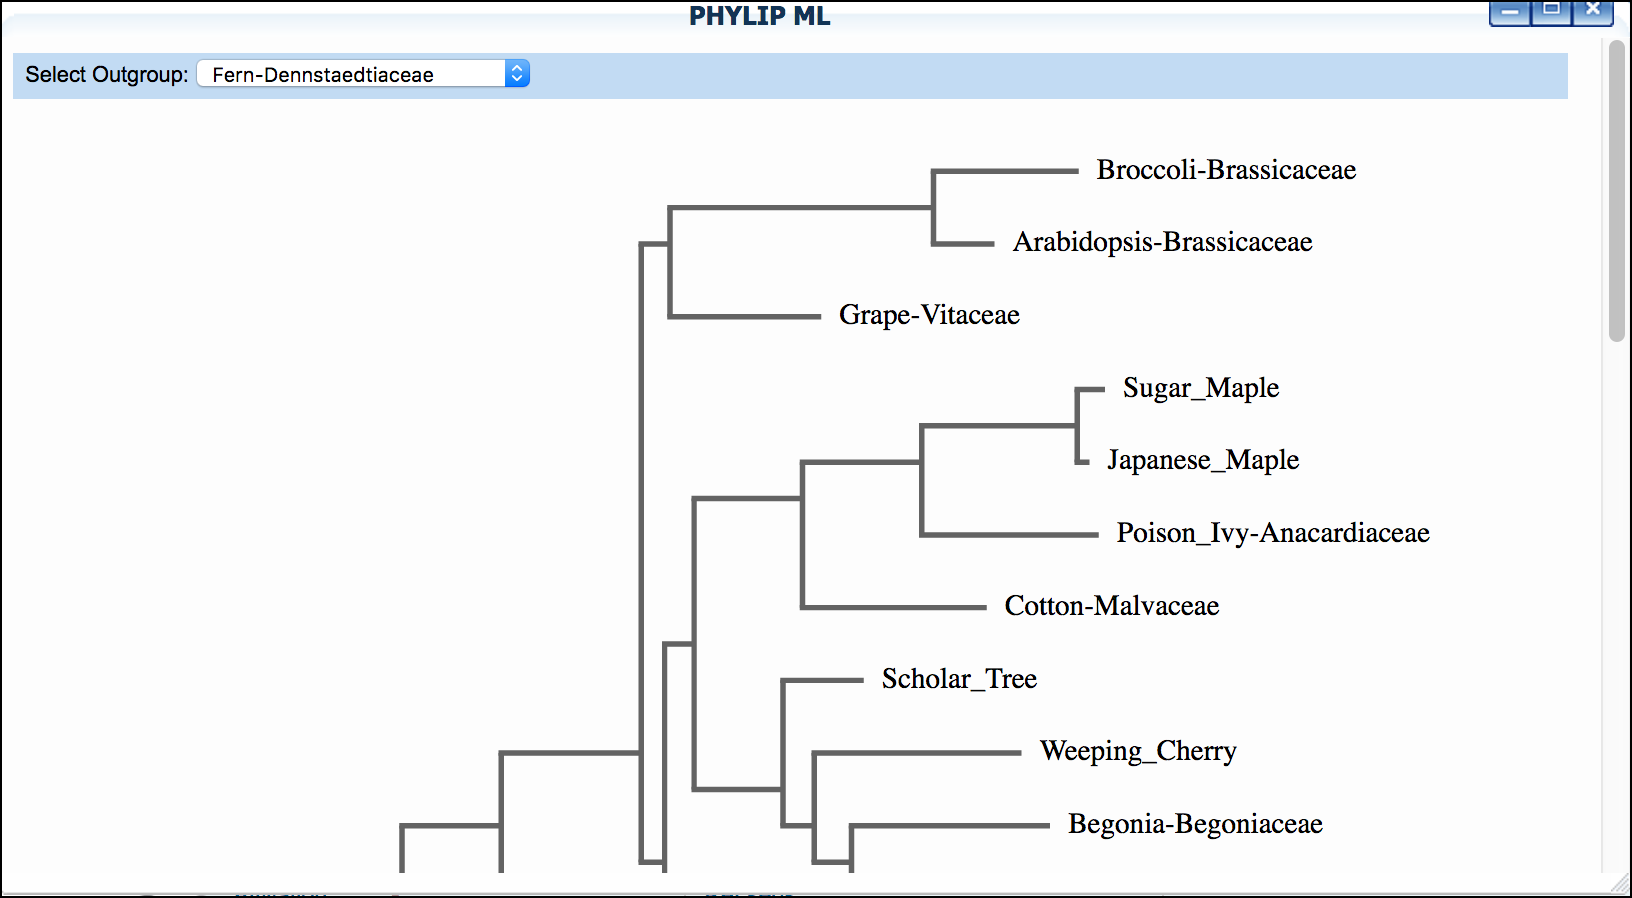
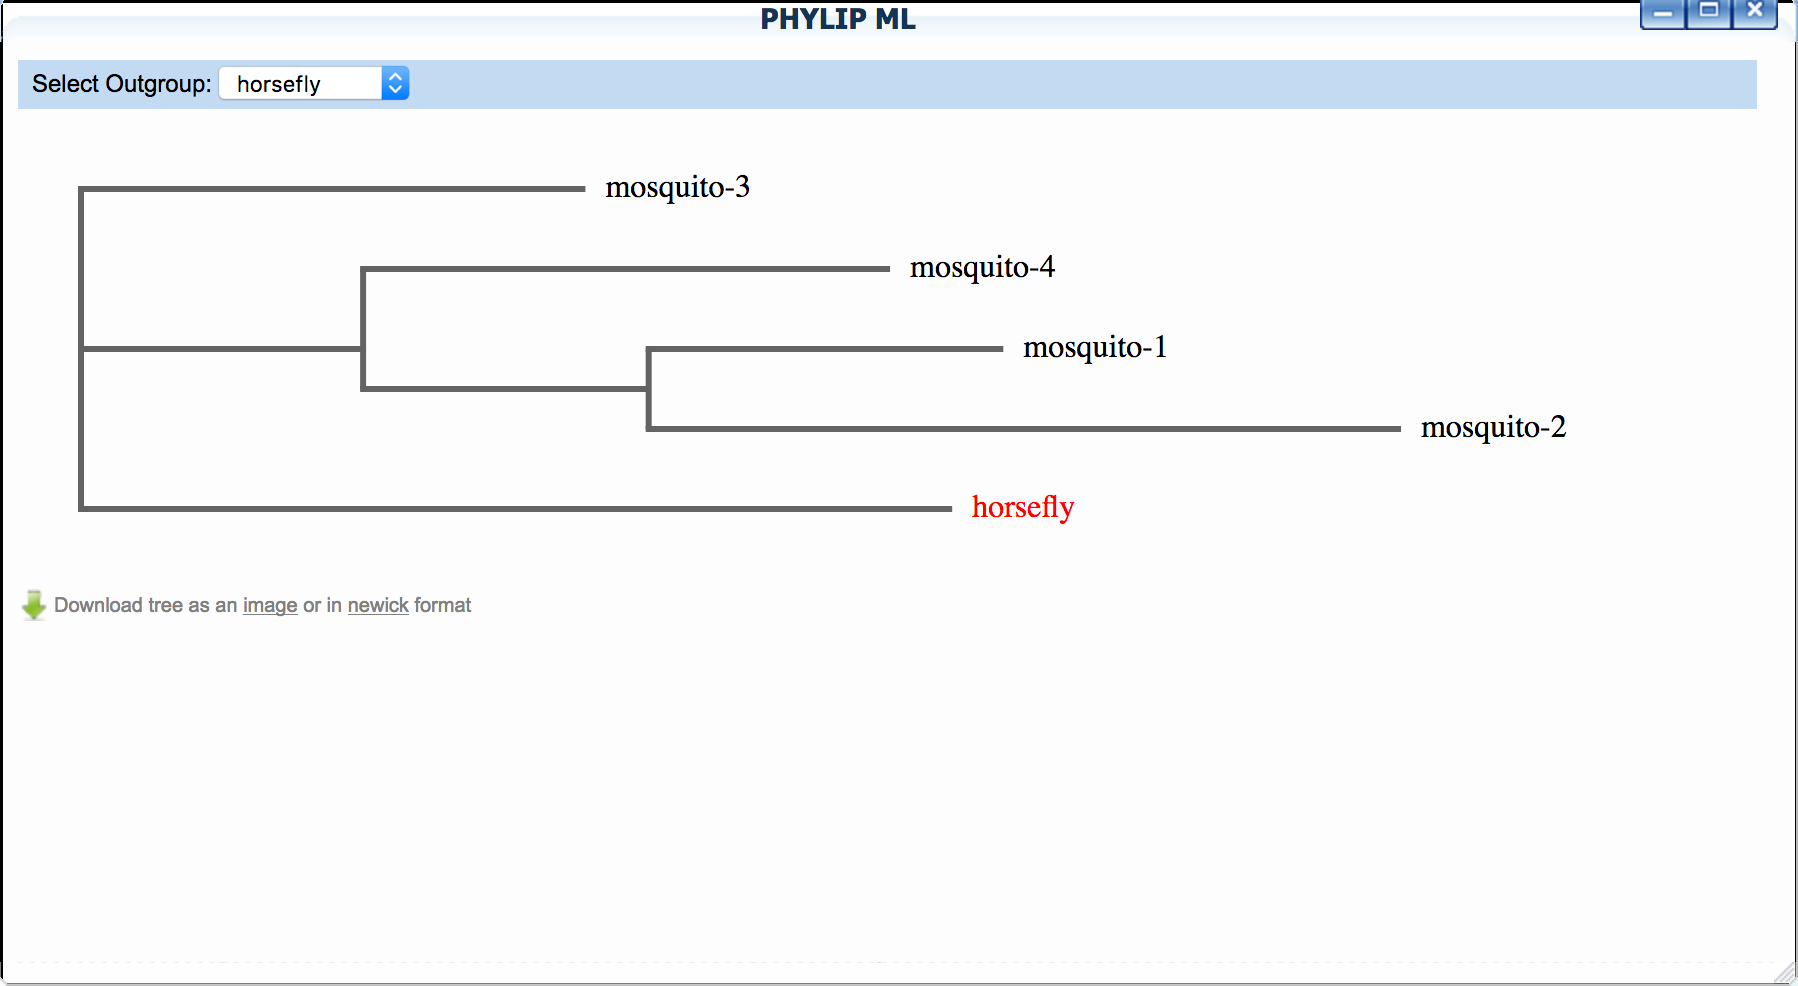
update blue line to use mosquito data

diff --git a/step5.rst b/step5.rst
@@ -27,6 +27,20 @@ databases like GenBank.
 
 ----
 
+     .. admonition:: Sample data
+
+      **How to use provided sample data**
+
+      In this guide, we will use a mosquito dataset that includes DNA
+      sequences isolated from mosquito larvae collected from Virginia’s
+      Shenandoah Valley (*"Mosquito dataset"*).
+      There is a complete two-hour classroom bioinformatics lab with detailed
+      instructions for instructors and students on QUBES hub
+      `here <https://qubeshub.org/qubesresources/publications/165/2>`_.
+      Where appropriate, a note (in this orange colored background) in the
+      instructions will indicate which options to select to make use of this
+      provided dataset.
+
 *DNA Subway Blue Line - Create a Barcoding Project*
 ~~~~~~~~~~~~~~~~~~~~~~~~~~~~~~~~~~~~~~~~~~~~~~~~~~~
   1. Log-in to `DNA Subway <https://dnasubway.cyverse.org/>`_ - unregistered users may 'Enter as Guest'
@@ -36,32 +50,29 @@ databases like GenBank.
          able to submit sequence to GenBank
 
   2. Choose a project type:
-      - Phlogenetics: build phylogenetic trees from any DNA, protein, or mtDNA sequence)
+      - Phylogenetics: build phylogenetic trees from any DNA, protein, or mtDNA sequence)
       - Barcoding: DNA Barcoding for plants (rbcL), animals (COI),
         bacteria (16S), and fungi (ITS)
+
+     .. admonition:: Sample data
+
+       *"Mosquito"* dataset:
+
+       Select **COI**.
 
   3. Under 'Select Sequence Source' select a sequence buy uploading either a
      FASTA file or AB1 Sanger sequencing tracefile; pasting in a sequence in
      FASTA format, or selecting and importing a trace file from DNALC. If
      you do not have a file, you may select any of the available sample sequences.
 
+     .. admonition:: Sample data
+
+       *"Mosquito"* dataset:
+
+       From **Select a set of sample sequences** select **Intro to Barcoding Bioinformatics: Mosquitoes**.
+
+
   4. Name your project, and give a description if desired; click 'Continue.'
-
-**Example Exercise - Create a Project: Common Trees**
-``````````````````````````````````````````````````````
-This project will contain sample sequences from some common trees.
-
-
-  1. Log-in to `DNA Subway`_ - unregistered users may 'Enter as Guest'
-
-  2. Click ‘Determine Sequence Relationships.’ (Blue Square)
-
-  3. Select project type ‘Barcoding: rbcL.’
-
-  4. Select sample sequence 'rbcL sample1'.
-
-  5. Provide your project with a title, then Click ‘Continue.’
-
 
 ----
 
@@ -96,6 +107,13 @@ display an “R” to indicate the change.
      reads of the same sequence set. Alternatively Select the ‘Auto Pair’
      function and verify the pairs generated.
 
+     .. admonition:: Sample data
+
+       *"Mosquito"* dataset:
+
+       Click **Try Auto Pairing**. One pair of horsefly sequences and 4 pairs
+       of mosquito sequences will be created. Finally, click :guilabel:`&Save`.
+
   5. As necessary, Reverse Compliment sequences that were sequenced in the
      reverse orientation by clicking the ‘F’ next to the sequence name. The
      ‘F’ will become an ‘R’ to indicate the sequence has been reverse
@@ -107,27 +125,25 @@ display an “R” to indicate the change.
 This step remove poor quality areas at the 5’ and/or 3’ ends of the consensus
 sequence.
 
-  1. Click on “Trim Consensus.” Scroll left and right in the consensus editor
-     window to identify what string of nucleotides from the consensus sequence
-     you want to trim.
+  1. Click on “Trim Consensus.” Once the job is ready to view, click "Trim
+     Consensus" again to view the results. Scroll left and right in the
+     consensus editor window to identify what string of nucleotides from the
+     consensus sequence you want to trim.
 
   2. Click on the last consensus sequence nucleotide that you want to trim.
      A red line will indicate what nucleotides will be removed from the
      consensus sequences.
 
-  3. Click “Trim.” A new “Consensus Editor” window will pop up displaying the
+  3. Click :guilabel:`&Trim`. A new “Consensus Editor” window will pop up displaying the
      trimmed sequences.
 
-**Example Exercise - View and Clean Barcoding Sequence Data: Common Trees**
-````````````````````````````````````````````````````````````````````````````
+     .. admonition:: Sample data
 
-Following the Viewing steps for the 'rbcL sample1' sample above, answer
-the following *discussion questions*:
+       *"Mosquito"* dataset:
 
-  1. What do you notice about the electropherogram peaks and quality scores at
-     nucleotide positions labeled “N”?
-
-  2. Where do the ‘N’s’ in the sequence tend to be distributed, and why?
+       All of the sequences in this dataset benefit from trimming. Follow the
+       steps above to trim sequences. We recommending trimming at the first and
+       last "grey" (lower quality) nucleotide on the right and left ends.
 
 ----
 
@@ -148,20 +164,17 @@ published matches in GenBank.
      species name given in the BLAST hit will also give additional
      information/photos of the listed species.
 
-  3. If desired, select the check box next to any hit, and select ‘Add BLAST hits
-     to project’ to add selected sequences to your project.
+  3. If desired, select the check box next to any hit, and click :guilabel:`&Add BLAST hits to project`
+     to add selected sequences to your project.
 
-     |blue_blast|
+       |blue_blast|
 
+     .. admonition:: Sample data
 
-**Example Exercise - Find Matches with BLAST: Common Trees**
-`````````````````````````````````````````````````````````````
+       *"Mosquito"* dataset:
 
-Following the BLAST steps for the 'rbcL sample1' sample above, answer
-the following *discussion questions*:
-
-  1. BLAST will return the closest matches present in GenBank. Will you be able
-     to identify an unknown species using BLAST alone? Why or why not?
+       We recommend performing a BLASTN search for all samples and saving the
+       top 2 matches to your project for additional analysis (as in Step 3).
 
 ----
 
@@ -179,12 +192,13 @@ sequences within the set in the next step.
 
   2. Select sequences of your choice.
 
-  3. Click ‘Add ref data’ to add the data to your project.
+  3. Click :guilabel:`&Add ref data` to add the data to your project.
 
-**Example Exercise - Add Reference Data: Common Trees**
-``````````````````````````````````````````````````````````
+     .. admonition:: Sample data
 
-  1. Complete the 'Reference Data' step using the 'Common Plants' sample data.
+       *"Mosquito"* dataset:
+
+       Select **Common insects** and then click :guilabel:`&Add ref data`.
 
 
 ----
@@ -198,15 +212,26 @@ sequences within the set in the next step.
 
   2. Select any and all sequences you wish to add to your tree.
 
-  3. Click ‘Save.” to select data
+     .. admonition:: Sample data
+
+       *"Mosquito"* dataset:
+
+       We suggest first adding your "user data" and building an alignment and
+       tree. You can return to this step later to build additional trees. Once
+       Selected, click :guilabel:`&Save Selections`. Follow the rest of the
+       steps in this section and section B to create your tree.
+
+  3. Click :guilabel:`&Save Selections` to select data
 
   4. Click ‘MUSCLE.’ to run the MUSCLE program.
 
   5. Click ‘MUSCLE’ again to open the sequence alignment window.
 
-  6. Examine the alignment and then select the 'Trim Alignment' link in the upper-left of the Alignment viewer'
-
     |blue_align|
+
+  6. Examine the alignment and then select the :guilabel:`&Trim Alignment`
+     button in the upper-left of the Alignment viewer'
+
 
 **B. Build phylogenetic tree**
 
@@ -218,19 +243,11 @@ sequences within the set in the next step.
 
     |blue_ml|
 
+     .. admonition:: Sample data
 
-**Example Exercise - Build a Multiple Sequence Alignment and Phylogenetic Tree: Common Trees**
-````````````````````````````````````````````````````````````````````````````````````````````````
-Following the Alignment and Phylogenetic Tree steps for the 'rbcL sample1' sample above, answer
-the following *discussion questions*:
+       *"Mosquito"* dataset:
 
-  1. What relationship do you see between sequences that have more mutations
-     (align less well with majority of sequences) in the alignment and the
-     lengths of a sequences’ branch on the tree?
-
-  2. Do you see differences in the phylogenetic tree generated by the
-     Neighbor-joining vs. Maximum likelihood method?
-
+       We suggest setting "horsefly" as outgroup for both trees.  
 
 ----
 

diff --git a/step7.rst b/step7.rst
@@ -23,6 +23,7 @@ in an R-Shiny app.
 - You must be a registered CyVerse user to use Green Line.
 - The Green line was designed to make RNA-Seq data analysis "simple". However,
   we ask that users thoughtfully decide what "jobs" they want to submit.
+  **Each user is limited to a maximum of 8 concurrent jobs running on Green or Purple line**.
 - A single Green Line project may take a week to process since HPC computing is
   subject to queues which hundreds of other jobs may be staging for. Additionally
   these systems undergo regular maintenance and are subject to periodic disruption.
